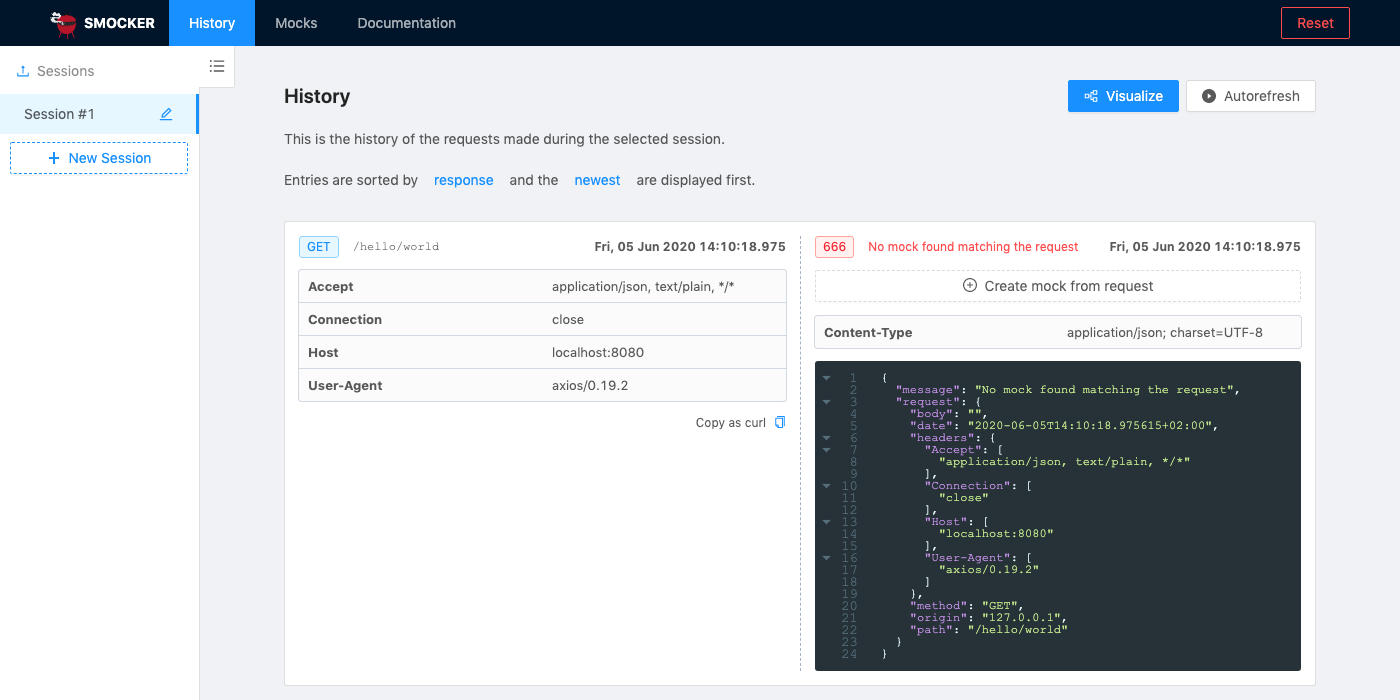
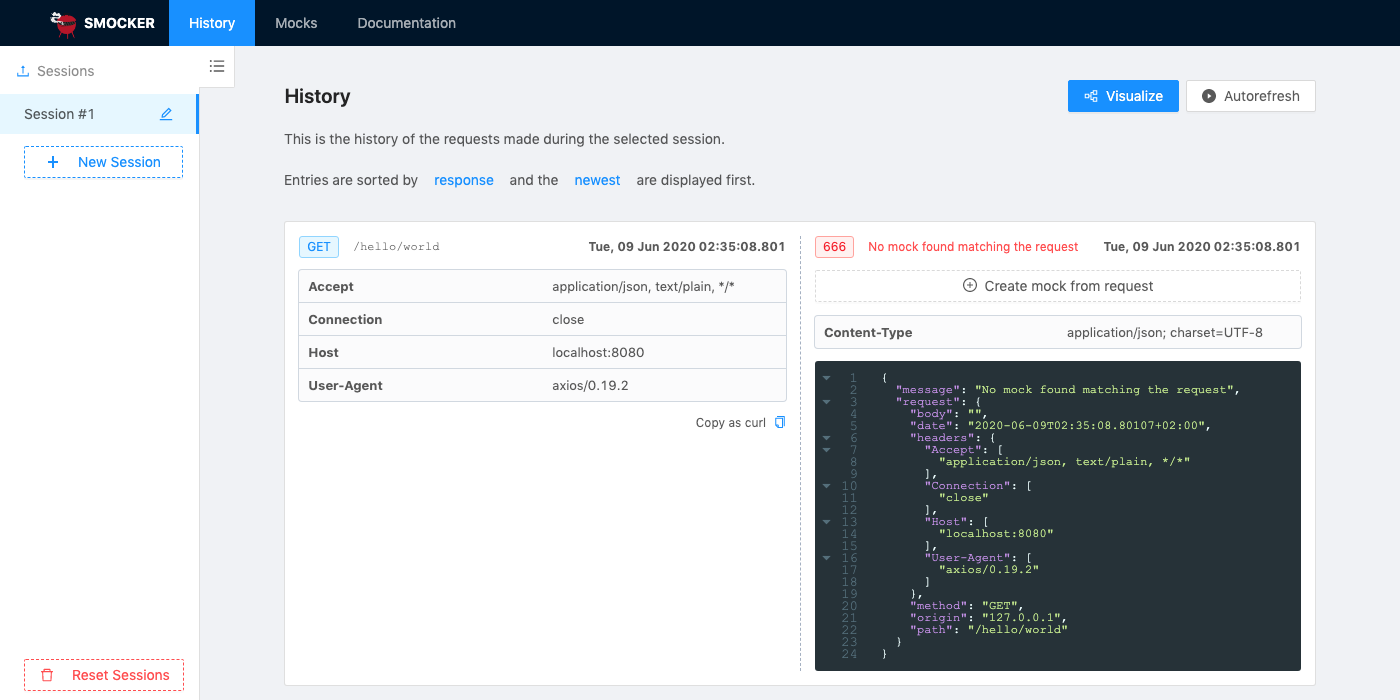
feat: regenerate screenshots

diff --git a/docs/refresh-screenshots.js b/docs/refresh-screenshots.js
@@ -61,7 +61,7 @@ async function main() {
   // Screenshot empty + add
   await axios.post(smockerAdminHost + "/reset");
   await page.goto(smockerAdminHost + "/pages/history");
-  await page.waitForSelector("li.ant-menu-item:nth-child(1)", {
+  await page.waitForSelector("li.ant-menu-item:nth-child(1) > div:nth-child(1)", {
     visible: true,
   });
   await page.waitFor(300);
